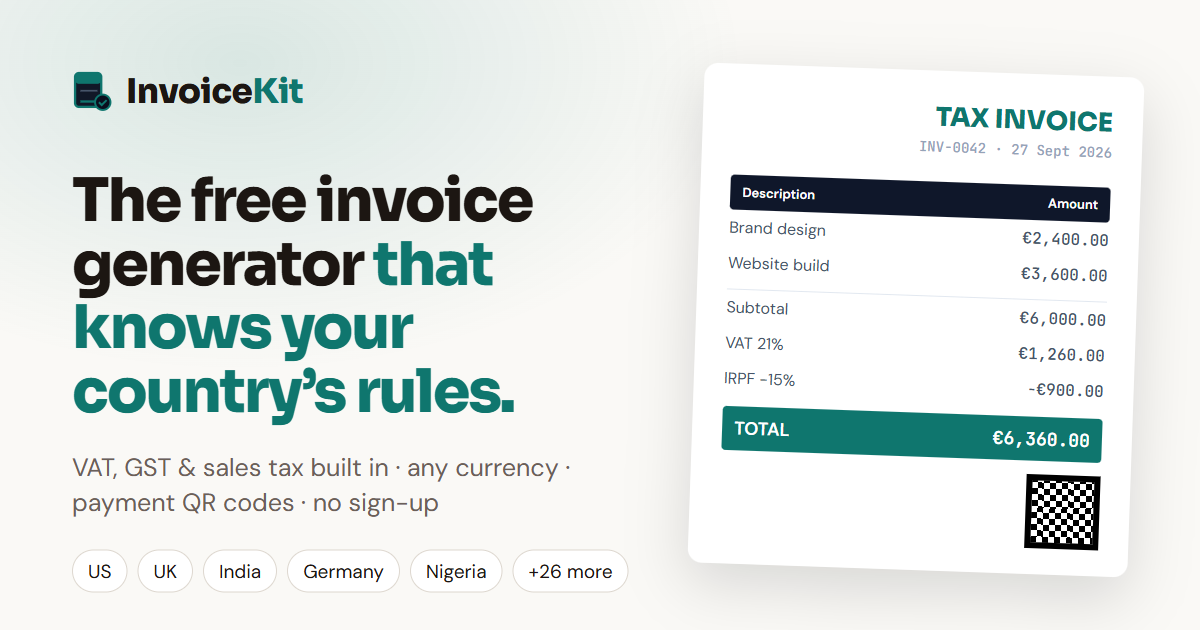
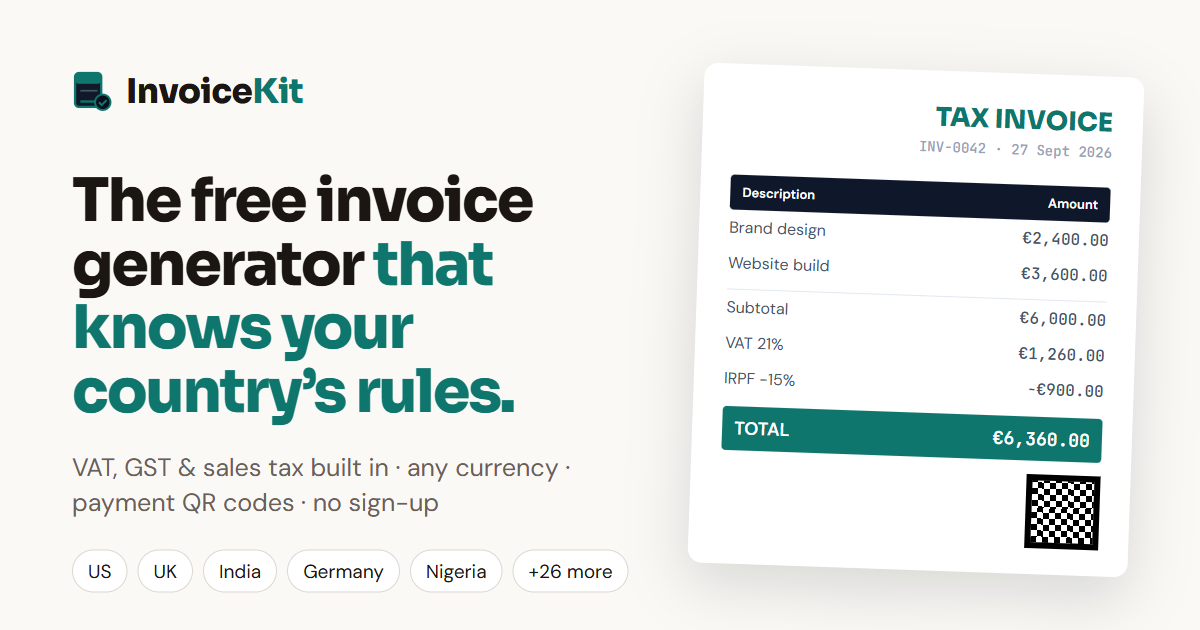
Design rule: solid colour fills only — drop hero glow, gradient shimmer and OG glow

Changed region(s): [[0.0925, 0.0, 0.3083, 0.2413]]

diff --git a/src/styles/global.css b/src/styles/global.css
@@ -170,24 +170,8 @@ code {
   clip: rect(0,0,0,0); white-space: nowrap; border: 0;
 }
 
-/* Shimmer animation for accent headline text */
-.shimmer {
-  background: linear-gradient(
-    100deg,
-    var(--accent) 0%,
-    #FCD34D 35%,
-    var(--accent) 55%,
-    var(--accent-deep) 100%
-  );
-  background-size: 200% auto;
-  -webkit-background-clip: text;
-  -webkit-text-fill-color: transparent;
-  background-clip: text;
-  animation: shimmer 4s linear infinite;
-}
-@keyframes shimmer {
-  to { background-position: 200% center; }
-}
+/* Accent headline text: a solid colour fill (design rule: no gradients) */
+.shimmer { color: var(--accent); }
 
 /* ── Entrance animations ─────────────────────────────── */
 @keyframes fadeUp {
